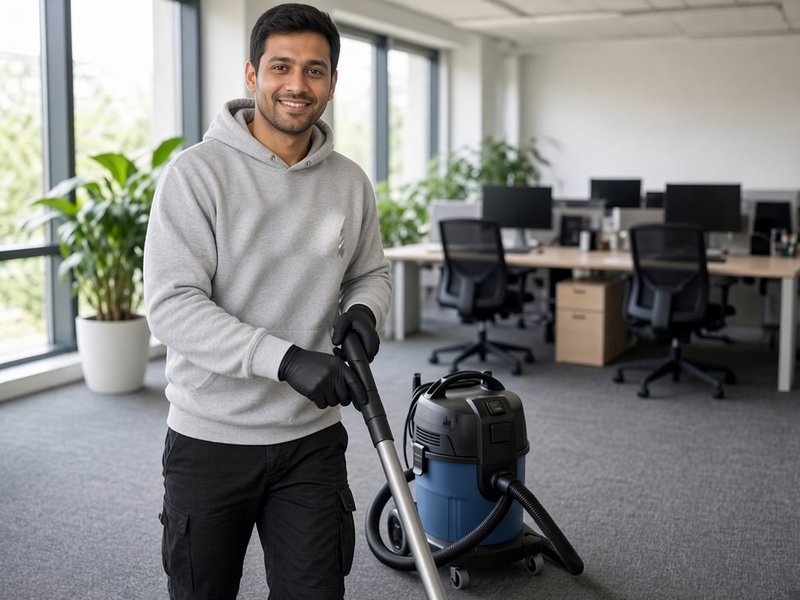
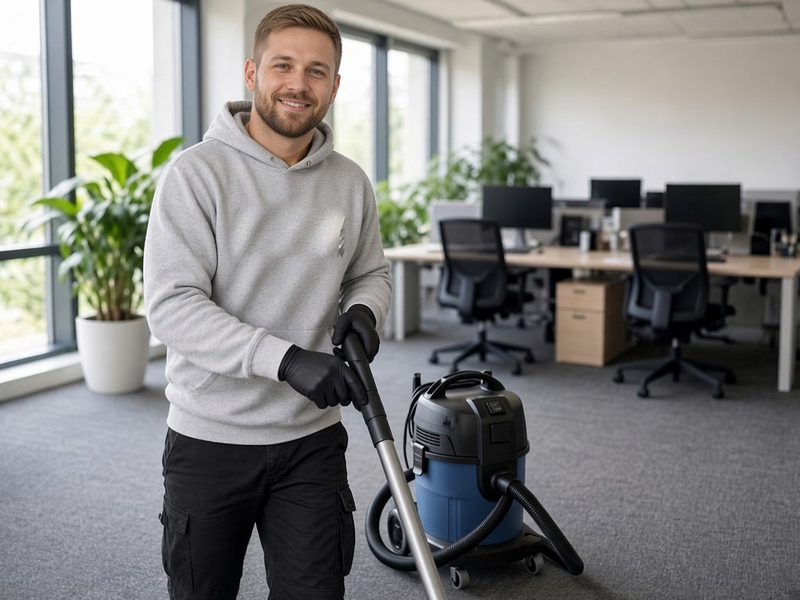
Neue LP Stil A Klar Berlin, neue Gesichter Büro und Entrümpelung (#10)
* PR10: Startseite im Stil Klar Berlin

Die eine Seite bekommt das vollflächige Hero, die grünen Akzente und die knappe Typo der Vorlage. Bilder, Kontaktdaten, Formular und Rechtstexte bleiben.

* PR10: neue Bilder für Gebäudereinigung und Entrümpelung

Die vier gelieferten Dateien ersetzen die gleichnamigen Motive bytegleich. Alt-Texte und das übrige Layout bleiben.

---------

Changed region(s): [[0.2812, 0.0, 0.4375, 0.27]]

diff --git a/style.css b/style.css
@@ -406,3 +406,94 @@ ul,ol{margin:0;padding:0;list-style:none}
 
 .topleiste__hinweis{margin:0;font-size:.82rem;line-height:1.4}
 .topleiste__hinweis strong{color:#fff;font-weight:700}
+
+/* Stil A „Klar Berlin“: vollflächiges Hero, grüne Akzente, knappe Typo.
+   Bestehende Bausteine (Leistungen, Fakten, Formular, Fuß) bleiben. */
+:root{--max:1208px;--bg:#fff}
+body{background:#fff}
+.topleiste{text-align:center;font-size:12px;letter-spacing:.02em}
+.topleiste__innen{justify-content:center;padding:8px 20px}
+.topleiste__hinweis{font-size:12px;letter-spacing:.02em;line-height:1.45}
+.topleiste__hinweis strong{color:var(--gruen);font-weight:700}
+.logo{height:36px}
+@media (max-width:700px){.logo{height:28px}}
+.nav--desk ul{gap:22px}
+.nav--desk a{padding:0;border-radius:0;font-size:14px;font-weight:600;background:none}
+.nav--desk a:hover{background:none;color:var(--blau)}
+@media (min-width:1020px){
+  .kopf__innen{display:grid;grid-template-columns:1fr auto 1fr;align-items:center;min-height:64px}
+  .marke{margin-right:0;justify-self:start}
+  .nav--desk{justify-self:center}
+  .kopf__cta{justify-self:end}
+}
+.btn{border-radius:8px;min-height:44px;font-weight:800}
+.btn--klein{min-height:0;padding:10px 16px;border-radius:8px;font-size:13px}
+.btn--primaer{background:var(--gruen);color:var(--blau);box-shadow:none}
+.btn--primaer:hover{background:#b6e24a;color:var(--blau);transform:none;box-shadow:none}
+.btn--primaer::after,.btn--primaer:hover::after{content:none}
+.btn:focus-visible{outline:3px solid var(--blau);outline-offset:3px;box-shadow:0 0 0 6px rgba(162,216,30,.45)}
+.kopf__cta{animation:none}
+
+.hero{display:block;background:#243240;color:#fff;overflow:visible}
+.hero::before{content:none;display:none}
+.hero__buehne{position:relative;isolation:isolate;min-height:640px;display:flex;align-items:center}
+.hero__bg{position:absolute;inset:0;z-index:0}
+.hero__bg img{width:100%;height:100%;object-fit:cover;object-position:78% 72%;transform:none;animation:none}
+.hero__buehne::after{content:"";position:absolute;inset:0;z-index:1;pointer-events:none;background:linear-gradient(90deg,rgba(27,38,48,.72) 0%,rgba(27,38,48,.28) 48%,rgba(27,38,48,.08) 100%)}
+.hero .wrap{position:relative;z-index:2}
+.hero__text{max-width:640px;padding:72px 0 88px}
+.hero__text>*{animation:none}
+.hero .eyebrow{color:var(--gruen);font-size:13px;font-weight:700;letter-spacing:.08em;margin:0 0 14px}
+.hero h1{color:#fff;font-size:48px;font-weight:800;line-height:1.12;letter-spacing:-.02em;margin:0 0 18px}
+.hero h1 .zeile{display:block}
+.hero h1 em{font-style:normal;color:var(--gruen);background:none;-webkit-text-fill-color:var(--gruen);animation:none}
+.hero .lead{color:#eef3ee;font-size:18px;line-height:1.45;max-width:28em;margin:0 0 22px}
+.hero .badges{gap:8px;margin:0 0 28px}
+.hero .badges li{border:1px solid rgba(255,255,255,.45);color:#fff;font-size:13px;font-weight:600;padding:6px 11px;border-radius:999px;background:rgba(255,255,255,.08)}
+.hero .badges li::before{content:none}
+.hero .knopfreihe{margin:0}
+.hero .btn--primaer{display:inline-flex;border-radius:8px;font-size:15px;font-weight:800;min-height:0;padding:12px 18px;animation:none}
+.hero__hinweis{position:absolute;right:20px;bottom:14px;z-index:3;margin:0;color:#fff;font-size:11px;font-weight:500;letter-spacing:.01em;line-height:1.3;opacity:.78;text-shadow:0 1px 2px rgba(20,30,40,.45);pointer-events:none;text-align:right}
+
+.schnell{margin-top:0;z-index:1;background:#fff;padding:1.75rem 0 2rem}
+.schnell__liste a{border-radius:8px}
+.eyebrow{letter-spacing:.08em;font-size:13px;font-weight:700}
+#ueber-uns{background:#fff}
+#leistungen{background:#f4f6f4}
+#warum{background:#fff}
+#vorteile,#kontakt{background:#f4f6f4;color:var(--ink)}
+#ablauf{background:#fff}
+#einsatzgebiet{background:#f4f6f4}
+.sektion--dunkel h1,.sektion--dunkel h2,.sektion--dunkel h3,.sektion--dunkel h4{color:var(--blau)}
+.sektion--dunkel .eyebrow{color:var(--gruen-t)}
+.sektion--dunkel .lead,.sektion--dunkel p{color:var(--mut)}
+#vorteile .sektion__kopf p,#kontakt .sektion__kopf .lead{color:var(--mut)}
+.vorteil{background:#fff;border:1px solid #e6eae6}
+.vorteil h3{color:var(--blau)}
+.vorteil p{color:var(--mut)}
+.vorteil svg{stroke:var(--gruen-d)}
+.kachel,.fakten li,.schritte li,.formular{border-radius:12px}
+.daten dt{color:var(--blau)}
+.daten dd,.daten a{color:var(--ink)}
+.kontakt .btn--zweit{color:var(--blau);border-color:var(--blau);background:transparent}
+.kontakt .btn--zweit:hover{background:var(--gruen-bg);color:var(--blau)}
+.formular{border:1px solid #e6eae6;box-shadow:none}
+.fuss{background:var(--blau)}
+
+@media (max-width:899px){
+  .hero{display:flex;flex-direction:column;background:#fff;color:var(--ink)}
+  .hero__buehne{display:block;min-height:0;flex:none;width:100%;color:#fff}
+  .hero__bg{position:absolute;inset:0;z-index:0;aspect-ratio:auto;overflow:hidden}
+  .hero__bg img{object-position:64% 34%;transform:none}
+  .hero__bg::after{content:none}
+  .hero__buehne::after{background:linear-gradient(180deg,rgba(27,38,48,.16) 0%,rgba(27,38,48,.42) 42%,rgba(27,38,48,.8) 100%)}
+  .hero__text{padding:150px 0 20px;max-width:none}
+  .hero h1{font-size:30px}
+  .hero .lead{font-size:15px}
+  .hero .badges{margin-bottom:16px}
+  .hero__hinweis{position:static;align-self:flex-end;z-index:4;margin:0;padding:7px 16px 8px;width:100%;font-size:10px;line-height:1.35;color:#5c6b78;opacity:1;text-shadow:none;background:#fff;text-align:right}
+}
+@media (min-width:1920px){
+  .hero__buehne{min-height:680px}
+  .hero__bg img{object-position:74% 68%;transform:none}
+}

diff --git a/index.html b/index.html
@@ -26,7 +26,7 @@
 <meta name="twitter:image:alt" content="Reinigungskraft in grauem Kapuzenpullover reinigt mit einem Abzieher eine große Fensterfront.">
 <link rel="icon" href="logo-mark.svg" type="image/svg+xml">
 <link rel="preload" href="fonts/PlusJakartaSans.woff2" as="font" type="font/woff2" crossorigin>
-<link rel="stylesheet" href="style.css?v=20261106-tropfen">
+<link rel="stylesheet" href="style.css?v=20261112-klar">
 <!--
   LOGO/FARBEN: Logo = Vektor-Nachbau (Nachzeichnung) des gelieferten Logos, keine exakte Kopie; Dateien logo.svg, logo-mark.svg. Farben = Logo-Blau #42586d und Logo-Grün #a2d81e.
 -->
@@ -104,30 +104,28 @@
 <header class="kopf">
   <div class="wrap kopf__innen">
     <a class="marke" href="#start" aria-label="Mega Clean Berlin – zum Seitenanfang"><svg class="logo" role="img" aria-label="Mega Clean Berlin" viewBox="28 12 1446 235" focusable="false"><use href="#mc-logo"/></svg></a>
-    <nav class="nav nav--desk" aria-label="Hauptnavigation"><ul><li><a href="#start">Home</a></li><li><a href="#leistungen">Leistungen</a></li><li><a href="#vorteile">Vorteile</a></li><li><a href="#ablauf">Ablauf</a></li><li><a href="#einblicke">Einblicke</a></li><li><a href="#kontakt">Kontakt</a></li></ul></nav>
-    <a class="btn btn--klein btn--primaer kopf__cta" href="#kontakt">Jetzt kostenlos anfragen</a>
-    <details class="menue" id="burger"><summary aria-label="Menü öffnen oder schließen"><span class="burger" aria-hidden="true"><i></i><i></i><i></i></span><span class="menue__text">Menü</span></summary><nav class="nav menue__panel" aria-label="Mobilnavigation"><ul><li><a href="#start">Home</a></li><li><a href="#leistungen">Leistungen</a></li><li><a href="#vorteile">Vorteile</a></li><li><a href="#ablauf">Ablauf</a></li><li><a href="#einblicke">Einblicke</a></li><li><a href="#kontakt">Kontakt</a></li></ul><a class="btn btn--primaer menue__cta" href="#kontakt">Jetzt kostenlos anfragen</a><a class="menue__tel" href="tel:+49304397926970">+49 30 439 792 6970</a></nav></details>
+    <nav class="nav nav--desk" aria-label="Hauptnavigation"><ul><li><a href="#leistungen">Leistungen</a></li><li><a href="#vorteile">Vorteile</a></li><li><a href="#einblicke">Einblicke</a></li><li><a href="#kontakt">Kontakt</a></li></ul></nav>
+    <a class="btn btn--klein btn--primaer kopf__cta" href="#kontakt">Jetzt anfragen</a>
+    <details class="menue" id="burger"><summary aria-label="Menü öffnen oder schließen"><span class="burger" aria-hidden="true"><i></i><i></i><i></i></span><span class="menue__text">Menü</span></summary><nav class="nav menue__panel" aria-label="Mobilnavigation"><ul><li><a href="#leistungen">Leistungen</a></li><li><a href="#vorteile">Vorteile</a></li><li><a href="#einblicke">Einblicke</a></li><li><a href="#ablauf">Ablauf</a></li><li><a href="#kontakt">Kontakt</a></li></ul><a class="btn btn--primaer menue__cta" href="#kontakt">Jetzt anfragen</a><a class="menue__tel" href="tel:+49304397926970">+49 30 439 792 6970</a></nav></details>
   </div>
 </header>
 
 <main id="inhalt">
 
 <section class="hero" id="start" aria-labelledby="h-hero">
-  <div class="hero__bg" aria-hidden="true"><img src="img/header-v4-1280.jpg" srcset="img/header-v4-800.jpg 800w, img/header-v4-1280.jpg 1280w, img/header-v4-1920.jpg 1920w" sizes="100vw" fetchpriority="high" width="1920" height="1080" alt="" decoding="async"></div>
-  <p class="schnell__hinweis hero__hinweis">Beispielbilder, KI-bearbeitet.</p>
-  <div class="wrap">
-    <div class="hero__text">
-      <p class="eyebrow">Zuverlässig · Kurzfristige Termine · Faire Festpreise</p>
-      <h1 id="h-hero">Gebäudereinigung &amp; <em>Hausmeisterservice Berlin</em></h1>
-      <p class="lead">Reinigung, Entrümpelung, Umzüge &amp; Gebäudeservice – schnell, zuverlässig und fair. Ihr lokaler Partner in ganz Berlin.</p>
-      <ul class="badges" aria-label="Leistungen"><li>Gebäudereinigung</li><li>Baustellenreinigung</li><li>Rohrreinigung</li><li>Entrümpelung</li><li>Umzüge</li><li>Hausmeisterservice</li></ul>
-      <p class="knopfreihe">
-        <a class="btn btn--primaer" href="#kontakt">Jetzt Angebot anfordern</a>
-        <a class="btn btn--zweit" href="tel:+49304397926970">+49 30 439 792 6970</a>
-      </p>
-      <p class="hinweis-klein">Unverbindlich &amp; kostenlos anfragen</p>
+  <div class="hero__buehne">
+    <div class="hero__bg" aria-hidden="true"><img src="img/header-v4-1280.jpg" srcset="img/header-v4-800.jpg 800w, img/header-v4-1280.jpg 1280w, img/header-v4-1920.jpg 1920w" sizes="100vw" fetchpriority="high" width="1920" height="1080" alt="" decoding="async"></div>
+    <div class="wrap">
+      <div class="hero__text">
+        <p class="eyebrow">Berliner Familienunternehmen seit 2018</p>
+        <h1 id="h-hero"><span class="zeile">Gebäudereinigung &amp;</span><em><span class="zeile">Hausmeisterservice</span><span class="zeile">Berlin</span></em></h1>
+        <p class="lead">Zuverlässig, kurzfristig, faire Festpreise – alles aus einer Hand.</p>
+        <ul class="badges" aria-label="Leistungen"><li>Gebäudereinigung</li><li>Baustellenreinigung</li><li>Rohrreinigung</li><li>Entrümpelung</li><li>Umzüge</li><li>Hausmeisterservice</li></ul>
+        <p class="knopfreihe"><a class="btn btn--primaer" href="#kontakt">Jetzt kostenlos anfragen</a></p>
+      </div>
     </div>
   </div>
+  <p class="schnell__hinweis hero__hinweis">Beispielbilder, KI-bearbeitet.</p>
 </section>
 
 <nav class="schnell" id="einblicke" aria-label="Leistungen im Überblick">
